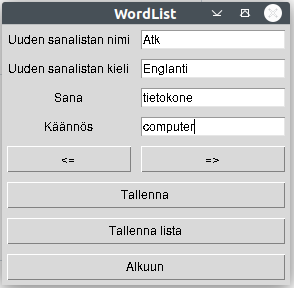
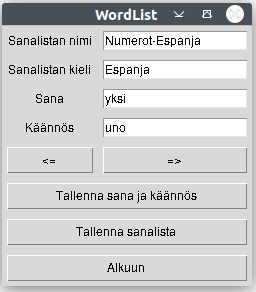
loppupalautus

diff --git a/dokumentaatio/vaatimusmaarittely.md b/dokumentaatio/vaatimusmaarittely.md
@@ -3,15 +3,14 @@
 ## Sovelluksen tarkoitus
 
 Sovelluksen käyttötarkoitus on vieraan kielen sanaston harjoittelu.
-Sovelluksen pääkieli on suomi
-Harjoitus tehdään kirjottamalla suomesta käännetty sana halutulla kielellä
+Sovelluksella voi luoda sanalistoja ja luotuja sanalistoja voi harjoitella. Listat muodostuvat sanoista ja niiden käännöksistä. Harjoittelu tapahtuu kirjoittamalla annetun sanan käännös.
 
 ## Käyttäjät
 
 Käyttäjärooleja on kaksi. Opettaja ja oppilas joilla on eri oikeuksia.
 
-- Opettaja voi luoda harjoituksia jotka koostuvat sanalistoista ja niiden käännöksistä.
-- oppilas voi valita tehtävän harjoituksen listalta jossa harjoitukset voi jaotella kielien perusteella
+- Opettaja voi luoda sanalistoja.
+- Oppilas voi valita harjoiteltavaksi sanalistan ja tehdä harjoituksen.
 
 
 
@@ -23,51 +22,51 @@ Sovellus koostuu kuudesta eri näkymästä
 
 ### 1 kirjautumis näkymä
 
-- Sovellus aukeaa kirjautumisnäkymään jossa kysytään käyttäjätunnusta.
-- Mikäli tunnus tai salasana ei ole oikein annetaan siitä ilmoitus
-- mikäli tunnusta ei ole, sen voi luoda käyttäjätunnuksen-luonti näkymässä
+- Sovellus aukeaa kirjautumisnäkymään jossa kysytään käyttäjätunnusta ja salasanaa.
+- Mikäli tunnus tai salasana ei ole oikein annetaan siitä ilmoitus.
+- Mikäli tunnusta ei ole, sen voi luoda käyttäjätunnuksen-luonti näkymässä.
 
 
 
 ### 2 käyttäjätunnuksen-luonti näkymä
 
-- Annetaan näyttäjänimi ja salasana
-- voidaan valita rooliksi opettaja tai oppilas
-- käyttäjä tunnuksen on oltava uniikki
-- käyttäjätunnus ja salasana tallennetaan tietokantaan
+- Annetaan näyttäjänimi ja salasana.
+- Voidaan valita rooliksi opettaja tai oppilas.
+- Käyttäjä tunnuksen on oltava uniikki.
+- Käyttäjätunnus ja salasana tallennetaan tietokantaan.
 
 ### 3 Opettajan aloitusnäkymä
 
-- Opettajan aloitusnäkymässä voi valita joko uuden sanalista tai olemassa olevan sanalistan muokkauksen
-- Muokattavissa olevat sanalistat voidaan jaotella kielen mukaan
+- Opettajan aloitusnäkymässä voi valita joko uuden sanalista tai olemassa olevan sanalistan muokkauksen.
+- Muokattavissa olevat sanalistat voidaan jaotella kielen mukaan.
 
 
 ### 4 Opettajan päänäkymä
 
-- annetaan harjoitukselle nimi ja kieli
-- annetaan uusi sana ja sille käännös
-- sanat ja käännökset tallennetaan Tallenna sana painikkeella
-- sekä sana että sen käännös on kirjoitettava jotta sana voidaan tallentaa
-- nuolinäppäimillä voidaan siirtyä eteen ja taaksepäin
-- Sanaoja tai käännöksiä voi myös muuttaa
-- muutokset voidaan perua ja palata pää näkymään
-- Tallenna sanalista painike tallentaa sanalistan
-- sanalista ei voi olla tyhjä ja sillä on oltava sekä nimi että kieli
+- Annetaan harjoitukselle nimi ja kieli.
+- Annetaan uusi sana ja sille käännös.
+- Sanat ja käännökset tallennetaan Tallenna sana painikkeella.
+- Sekä sana että sen käännös on kirjoitettava jotta sana voidaan tallentaa.
+- Nuolinäppäimillä voidaan siirtyä eteen ja taaksepäin.
+- Sanaoja tai käännöksiä voi myös muuttaa.
+- Muutokset voidaan perua ja palata pää näkymään.
+- Tallenna sanalista painike tallentaa sanalistan.
+- Sanalista ei voi olla tyhjä ja sillä on oltava sekä nimi että kieli.
 
 
 ### 5 Oppilaan päänäkymä
 
-- Oppilaan päänäkymässä voi valita tehtävän harjoituksin nimen ja kielen perusteella (Tämä ei ole vielä toteutettu ja voi olla turha valinta)
-- siirrytään harjoitus näkymään
-- ellei sanalistoja ole siitä informoidaan
+- Oppilaan päänäkymässä voi valita tehtävän harjoituksin nimen ja kielen perusteella.
+- Siirrytään harjoitus näkymään.
+- Ellei sanalistoja ole siitä informoidaan.
 
 
 ### 6 Harjoitus näkymä
 
-- Kysytty sana käännetään ja kirjoitetaan
-- Tarkistus
-- Palaute sen mukaan onko oikein vai
-- Mikäli tehdään virhe näytetään vihjeenä kirjaimia kunnes sana on oikein tai kaikki kirjaimet on näytetty
+- Kysytty sana käännetään ja kirjoitetaan.
+- Sana tarkistetaan.
+- Palaute sen mukaan onko oikein vai väärin.
+- Mikäli tehdään virhe näytetään vihjeenä kirjaimia kunnes sana on oikein tai kaikki kirjaimet on näytetty.
 - Kun kaikki sanat on käyty läpi näytetään kyseisen harjoituksen tilasto pylväsgrafiikkana jossa prosentteina oikeiden vastausten osuus.
 
 ### Ulkoiset kirjastot
@@ -81,7 +80,7 @@ Sovellus koostuu kuudesta eri näkymästä
 - Sovellukseen voisi lisätä toiminnon joka laatisi opeteltavia sanalistoja automaattisesti annetun tekstin sanastosta tai niin että tietty teksti käytäisiin läpi manuaalisesti ja siitä tallennettaisiin halutut sanat.
 - Voisi myös tehdä toiminnon jolla käyttäjä voi halutessaan lisätä itselleen listan sanoista jotka ovat tuottaneet virheitä.
 - Listoille voisi luoda automaattiset käännökset eri kielille.
--Käyttöliittymää olisi syytä sujuvoittaa. Tämänhetkinen viestiruuduille perustuva toiminnallisuus on kömpelö oikeaan harjoitteluun. Viestit voisi printata esim. ikkunan yläreunaan tai erilliseen viestipalkkiin.
+- Käyttöliittymää olisi syytä sujuvoittaa. Tämänhetkinen viestiruuduille perustuva toiminnallisuus on kömpelö oikeaan harjoitteluun. Viestit voisi printata esim. ikkunan yläreunaan tai erilliseen viestipalkkiin.
 
 
 

diff --git a/dokumentaatio/Kayttoohje.md b/dokumentaatio/Kayttoohje.md
@@ -21,8 +21,8 @@ poetry run invoke start
 
 ### Kirjautumis näkymä
 
-- Sovellus aukeaa kirjautumisnäkymään jossa kysytään käyttäjätunnusta.
-- Mikäli tunnus tai salasana ei ole sovellus ilmoittaa siitä.
+- Sovellus aukeaa kirjautumisnäkymään jossa kysytään käyttäjätunnusta ja salasanaa.
+- Mikäli käyttäjätunnus tai salasana ei ole oikein sovellus ilmoittaa siitä.
 - Mikäli tunnusta ei ole, sen voi luoda käyttäjätunnuksen-luonti näkymässä klikkaamalla Luo Tunnus.
 
 !["Kirjautumis näkymä"](kuvat/login.png)
@@ -37,25 +37,26 @@ poetry run invoke start
 
 ### Opettajan aloitusnäkymä
 
-- Uusi sanalista painikkeella pääsee päänäkymään tekemään uuden sanalistan
-- Muokkaa painikkeella voi valita olemassaolevista listoista muokattavaksi päänäkymään
-- Lopeta painikkeella suljetaan sovellus
+- Uusi sanalista painikkeella pääsee päänäkymään tekemään uuden sanalistan.
+- Muokkaa painikkeella voi valita olemassaolevista listoista muokattavaksi päänäkymään.
+- Lopeta painikkeella suljetaan sovellus.
 
 !["Opettajan aloitusnäkymä"](kuvat/opettaja1.png)
 
 ### Opettajan päänäkymä
 
-- Uudelle sanalistalle annetaan nimi
-- Listalla pitää olla uniikki nimi ja se ei saa olla tyhjä
-- Uudelle sanalistalle annetaan käännösten kieli
+- Uudelle sanalistalle annetaan nimi.
+- Listalla pitää olla uniikki nimi ja se ei saa olla tyhjä.
+- Uudelle sanalistalle annetaan käännösten kieli.
 - kirjoitetaan sana kenttään Sana ja sen käännös kenttään Käännös.
 
 !["Opettajan päänäkymä"](kuvat/opettaja2.png)
 
-- Nuolinäppäimillä voi liikkua sanalistassa ja tehdä muutoksia
-- Tallenna lisää näkyvissä olevan sanan sanalistaan
+- Nuolinäppäimillä voi liikkua sanalistassa ja tehdä muutoksia näkyvissä olevaan sanaan tai käännökseen.
+- Tallenna sana ja käännös painike lisää näkyvissä olevan sanan sanalistaan.
+- Sekä sana että käännös täytyy olla että sana voidaan tallentaa.
 - Peru painikkeella pääsee takaisin kirjautumisnäkymään.
-- Tallenna lista painikkeella tallennetaan lista tietokantaan
+- Tallenna sanalista painikkeella tallennetaan lista tietokantaan.
 
 !["painikkeet"](kuvat/painikkeet.png)
 
@@ -63,21 +64,21 @@ poetry run invoke start
 
 - Valitaan harjoitus.
 - Vaidaan valita kieli jonka sanalistat halutaan näyttää.
-- Lopeta painikkeella suljetaan sovellus
+- Lopeta painikkeella suljetaan sovellus.
 
 !["Oppilaan päänäkymä"](kuvat/oppilas1.png)
 
 ### Harjoitusnäkymä
 
-- Harjoituksessa kirjoitetaan sanan käännös ja tarkistetaan Tarkista painikkeella
+- Harjoituksessa kirjoitetaan sanan käännös ja tarkistetaan Tarkista painikkeella.
 
 !["Harjoitusnäkymä"](kuvat/oppilas2.png)
 
-- sana oikein
+- Sana oikein.
 
 !["Oikein"](kuvat/oikein.png)
 
--mikäli sana on kirjoitettu väärin annetaan vihjeenä kirjaimia kunnes joko sana on oikein tai kaikki kirjaimet on annettu.
+- Mikäli sana on kirjoitettu väärin annetaan vihjeenä kirjaimia kunnes joko sana on oikein tai kaikki kirjaimet on annettu.
 
 !["vihje"](kuvat/vihje.png)
 

diff --git a/dokumentaatio/arkkitehtuuri.md b/dokumentaatio/arkkitehtuuri.md
@@ -37,23 +37,23 @@ Käyttäjätunnuksen luonti näkymässä annetaan käyttäjänimi ja salasana. V
 
 !["sekvenssikaavio AddNewUser"](kuvat/AddNewUser.png)
 
-Kirjautuminen näkymässä annetaan käyttäjätunnus ja salasana. WordListServise luokka välittää ne tietokantaluokalle joka tarkistaa täsmäävätkö ne. Mikäli eivät annetaan virheilmoitus. Onnistumisen kirjautumisen jälkeen näytetään roolin mukainen alkunäkymä.
+Kirjautuminen näkymässä annetaan käyttäjätunnus ja salasana. WordListServise luokka välittää ne tietokantaluokalle joka tarkistaa täsmäävätkö tunnus ja salasana. Mikäli eivät annetaan virheilmoitus. Onnistumisen kirjautumisen jälkeen näytetään roolin mukainen alkunäkymä.
 
 !["sekvenssikaavio Login"](kuvat/Login(Teacher).png)
 
 
-KirjautuOpettajan päänäkymäsää annetaan luodaan uusi sanalista (tai muokataan olemassa olevaa). Kun sanalista tallennetaan kutsutaan WordListServise luokan metodia check_word_list_name joka tarkistaa onko nimi jo käytössä. Mikäli nimi on sopiva tallennetaan sanalista ja onnistuneesta tallennuksesta palautetaan True.
+Opettajan päänäkymäsää luodaan uusi sanalista (tai muokataan olemassa olevaa). Kun sanalista tallennetaan, kutsutaan WordListServise luokan metodia check_word_list_name joka tarkistaa onko nimi jo käytössä. Mikäli nimi ei ole käytössä tallennetaan sanalista ja onnistuneesta tallennuksesta palautetaan True.
 
 !["sekvenssikaavio TeacherMainView"](kuvat/TeacherMainView.png)
 
-Kun oppilas valitsee sanalistan valikosta kutsutaan WordListServise luokan metodia open_active_wordlist joka hakee sanalistan tietokannasta ja asettaa luokan WordListServise muuttujat. Seuraavaksi kutsutaan Ui luokan metodia to exersice _view joka vaitaa näkymän Harjoitusnäkymäksi.
+Kun oppilas valitsee sanalistan valikosta kutsutaan WordListServise luokan metodia open_active_wordlist joka hakee sanalistan tietokannasta ja asettaa luokan WordListServise muuttujat. Seuraavaksi kutsutaan Ui luokan metodia to exersice _view joka vaihtaa näkymän Harjoitusnäkymäksi.
 
 !["sekvenssikaavio Open_wordlist"](kuvat/open_wordlist.png)
 
 
 # Heikkoudet ohjelman rakenteessa
 
-Koska jokaisella näkymällä on oma luokkansa on käyttökiittymäluokissa melko paljon toisteisuutta. Ongelma on tiedostettu ja jatkossa käyttöliittymäsuunittelussa on syytä rakentaa alusta asti mahdollisuus yhdistää toimintoja samaan luokkaan tai muullatavoin pyrkiä vähentämään copypastea.
+Koska jokaisella näkymällä on oma luokkansa on käyttöliittymäluokissa melko paljon toisteisuutta. Ongelma on tiedostettu ja jatkossa käyttöliittymäsuunittelussa on syytä rakentaa alusta asti mahdollisuus yhdistää toimintoja samaan luokkaan tai muulla tavoin pyrkiä vähentämään copypastea.
 
 
 

diff --git a/dokumentaatio/testaus.md b/dokumentaatio/testaus.md
@@ -5,11 +5,11 @@ Ohjelmaa on testattu automatisoiduilla yksikkö- ja integraatiotesteillä unitte
 
 ### Sovelluslogiikka
 
-Sovelluslogiikasta vastaavaa `WordListService`-luokkaa testataan `TestServise` luokan metodeilla. `TestServise`-luokan metodissa setUp tyhjennetään testejä varten tuotu tietokanta test-wordlistdb siten että tietokantahaut ja testit tehdään tyhjälle tietokannalle. Sovelluslogiikka testit testaavat myös sovellusta integraatiotasolla.
+Sovelluslogiikasta vastaavaa `WordListService`-luokkaa testataan `TestServise` luokan metodeilla. `TestServise`-luokan metodissa setUp tyhjennetään testejä varten luotu tietokanta test-wordlistdb siten että tietokantahaut ja testit tehdään tyhjälle tietokannalle. Sovelluslogiikka testit testaavat myös sovellusta integraatiotasolla.
 
 ### Tietokanta-luokka
 
-Tietokantaluokkaa `DbServise` testataan luokan `TestDbServise` luokan metodeilla. `TestDbServise`-luokan metodissa setUp tyhjennetään testejä varten tuotu tietokanta test-wordlistdb siten että  tietokantahaut ja testit tehdään tyhjälle tietokannalle.
+Tietokantaluokkaa `DbServise` testataan luokan `TestDbServise` luokan metodeilla. `TestDbServise`-luokan metodissa setUp tyhjennetään testejä varten luotu tietokanta test-wordlistdb siten että  tietokantahaut ja testit tehdään tyhjälle tietokannalle.
 
 ### Testauskattavuus
 
@@ -28,6 +28,6 @@ Sovelluksen release-versio on asennettu ja sitä on testattu [Käyttöohjeen](Ka
 
 ### Toiminnallisuudet
 
-Sovelluksessa on pyritty välttämään kaikki tilanteet joissa virheellinen syöte voisi aiheuttaa ongelman. Tällä hetkellä ei ole tiedossa että näin voisi käydä mikäli sovellus on asennettu ohjeiden mukaan. Ongelma syntyy kuitenkin silloin kun sovellus käynnistetään ennen tietokannan alustamista.
+Sovelluksessa on pyritty välttämään kaikki tilanteet joissa virheellinen syöte voisi aiheuttaa ongelman. Tällä hetkellä ei ole tiedossa että näin voisi käydä mikäli sovellus on asennettu ohjeiden mukaan. Ongelma voi kuitenkin aiheutua mikäli sovellus käynnistetään ohjeiden vastaisesti ennen tietokannan alustamista.
 
 

diff --git a/dokumentaatio/tuntikirjanpito.md b/dokumentaatio/tuntikirjanpito.md
@@ -23,6 +23,7 @@
 | 19.12. | 4    | bugien korjausta, testien koodausta, dokumentointia|
 | 20.12. | 5    | bugien korjausta. dokumentointia (Käyttöohje, arkkitehtuuri, vaatimusmäärittely) Sekvenssikaavioita|
 | 20.12. | 3    | bugien korjausta. dokumentointia (testidokumentti, vaatimusmäärittely) |
-| yht. | 66    | |
+| 21.12. | 2    | Testausta ja dokumentointia (testidokumentti, vaatimusmäärittely) |
+| yht. | 68    | |
 
 

diff --git a/README.md b/README.md
@@ -4,7 +4,7 @@
 # Sanalista
 
 Sovelluksen avulla voi harjoitella toisen kielen sanastoa.
-Sovelluksella voi luoda erikielisiä sanalistoja käännöksineen. Sanalistojen muistamista ja oikeinkirjoitusta voi harjoitella.
+Sovelluksella voi luoda sanalistoja käännöksineen. Sanaston muistamista ja oikeinkirjoitusta voi harjoitella kirjottamalla sanojen käännöksiä halutulle kielelle.
 
 ## Python-versio
 
